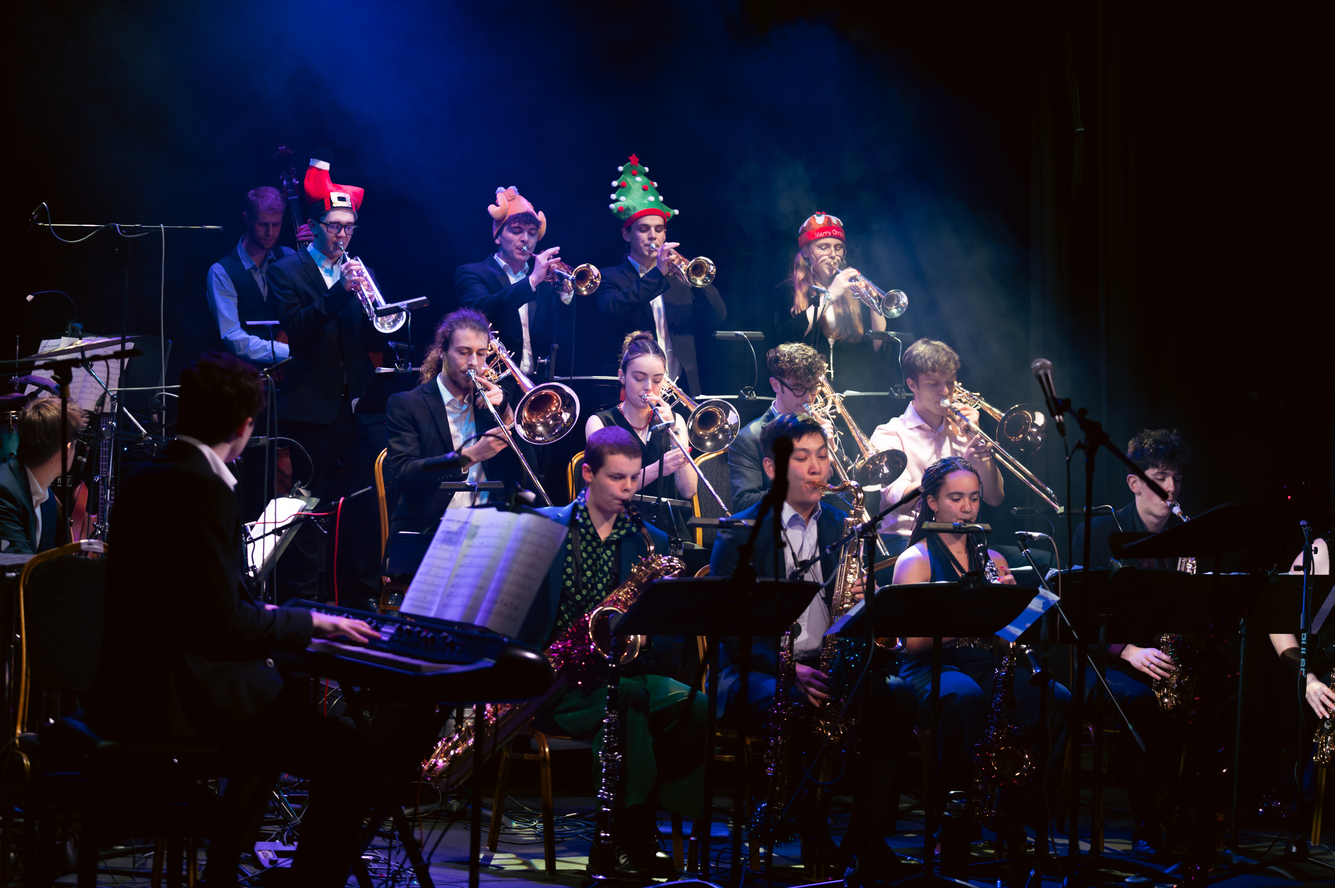
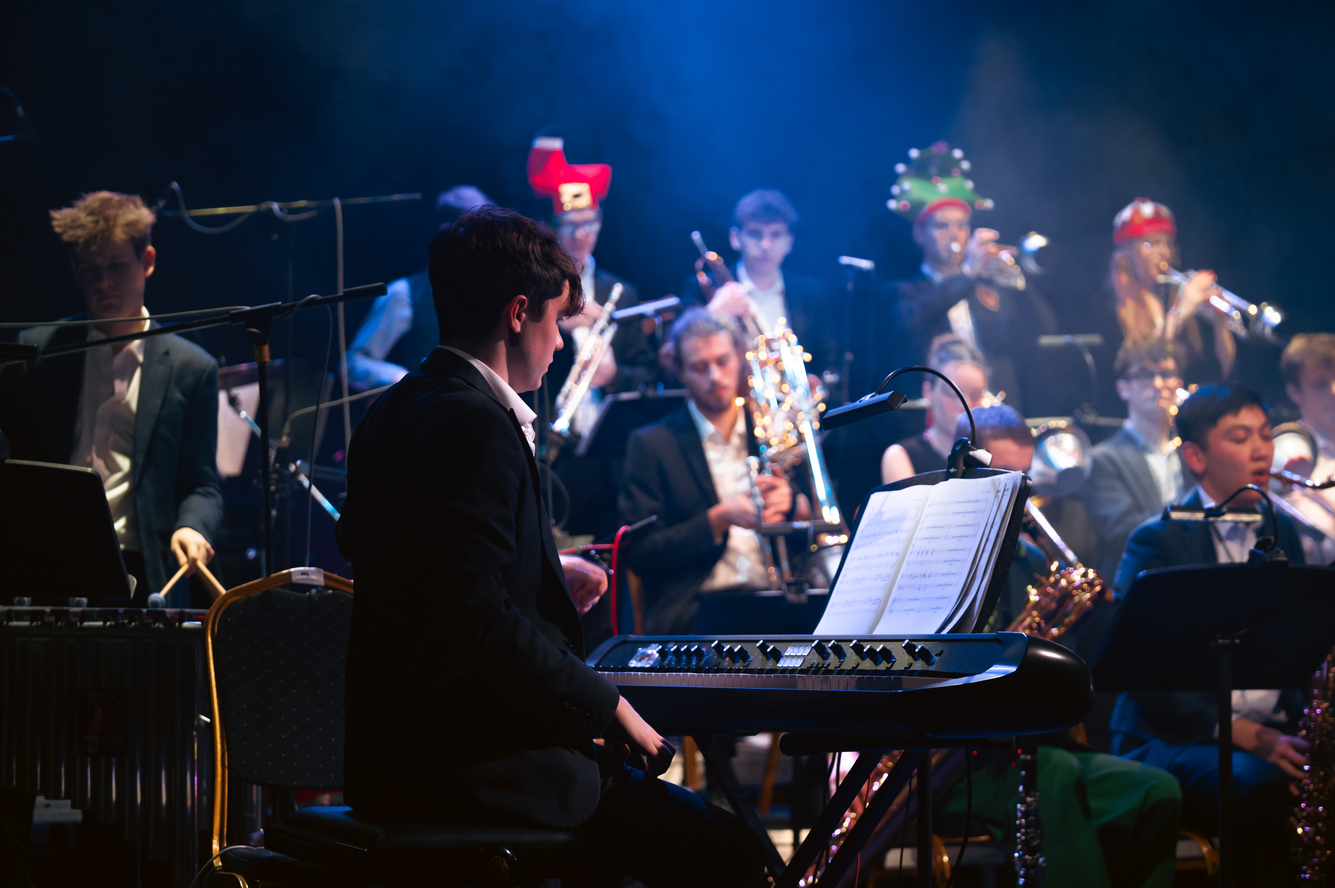
background image stuff

diff --git a/whosnext.py b/whosnext.py
@@ -148,7 +148,7 @@ def generate_html(candidates):
         <style>
             :root {{
                 --bg-color: #f4f7f9;
-                --card-bg: #ffffff;
+                --card-bg: rgba(255, 255, 255, 0.85);
                 --primary-text: #2c3e50;
                 --secondary-text: #7f8c8d;
                 --accent-color: #3498db;
@@ -158,7 +158,10 @@ def generate_html(candidates):
             body {{
                 font-family: 'Roboto', sans-serif;
                 margin: 0;
-                background-color: var(--bg-color);
+                background-image: url('img/bkg.jpg');
+                background-size: cover;
+                background-position: center;
+                background-attachment: fixed;
                 color: var(--primary-text);
                 padding-bottom: 120px; /* Space for the queue footer */
             }}
@@ -174,6 +177,7 @@ def generate_html(candidates):
             .card {{
                 flex: 1;
                 background-color: var(--card-bg);
+                backdrop-filter: blur(10px);
                 border-radius: 12px;
                 box-shadow: var(--shadow);
                 padding: 30px;
@@ -248,16 +252,17 @@ def generate_html(candidates):
                 bottom: 0;
                 left: 0;
                 width: 100%;
-                background-color: var(--card-bg);
+                background-color: rgba(255, 255, 255, 0.5);
+                backdrop-filter: blur(20px);
                 box-shadow: 0 -4px 12px rgba(0,0,0,0.05);
                 padding: 15px 40px;
                 box-sizing: border-box;
-                border-top: 1px solid var(--border-color);
+                border-top: 1px solid rgba(255, 255, 255, 0.2);
             }}
             .queue-header {{
                 text-align: center;
                 font-weight: 500;
-                color: var(--secondary-text);
+                color: var(--primary-text);
                 margin: 0 0 10px 0;
                 font-size: 1.1em;
             }}
@@ -269,9 +274,11 @@ def generate_html(candidates):
             .queue-item .name {{
                 font-size: 1.1em;
                 font-weight: 500;
+                color: var(--primary-text);
             }}
             .queue-item .instrument {{
                 font-size: 0.9em;
+                color: var(--primary-text);
             }}
         </style>
     </head>
@@ -291,20 +298,27 @@ def generate_html(candidates):
     return html
 
 if __name__ == '__main__':
+    # Change to the script's directory to ensure relative paths for assets work correctly
+    os.chdir(os.path.dirname(os.path.abspath(__file__)))
+    
     PORT = 8000
     table = initialise()
 
     class MyHttpRequestHandler(http.server.SimpleHTTPRequestHandler):
         def do_GET(self):
-            self.send_response(200)
-            self.send_header("Content-type", "text/html")
-            self.end_headers()
-            
-            candidates = get_candidates(table)
-            html = generate_html(candidates)
-            
-            self.wfile.write(bytes(html, "utf8"))
-            return
+            if self.path == '/':
+                self.send_response(200)
+                self.send_header("Content-type", "text/html")
+                self.end_headers()
+                
+                candidates = get_candidates(table)
+                html = generate_html(candidates)
+                
+                self.wfile.write(bytes(html, "utf8"))
+                return
+            else:
+                # Serve other files like images using the default handler
+                return http.server.SimpleHTTPRequestHandler.do_GET(self)
 
     Handler = MyHttpRequestHandler
     with socketserver.TCPServer(("localhost", PORT), Handler) as httpd:
